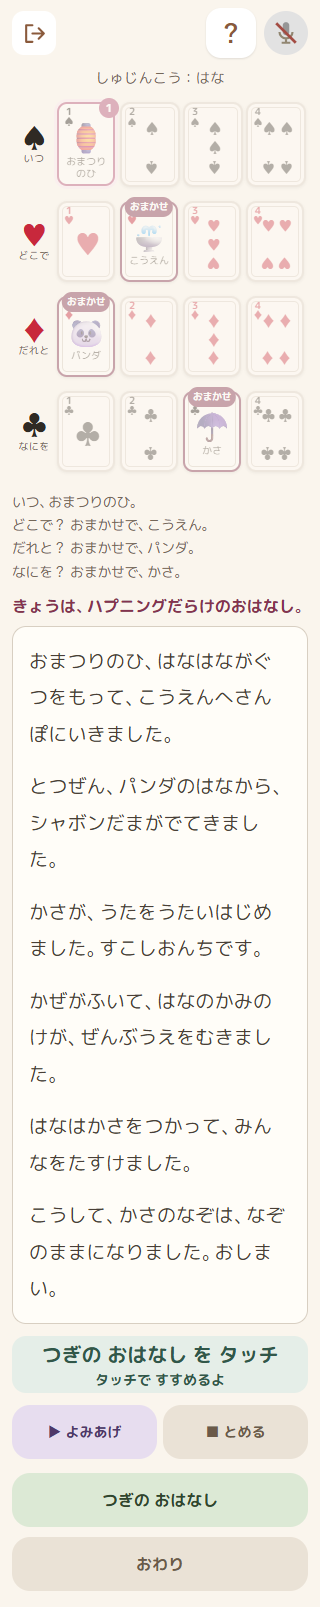
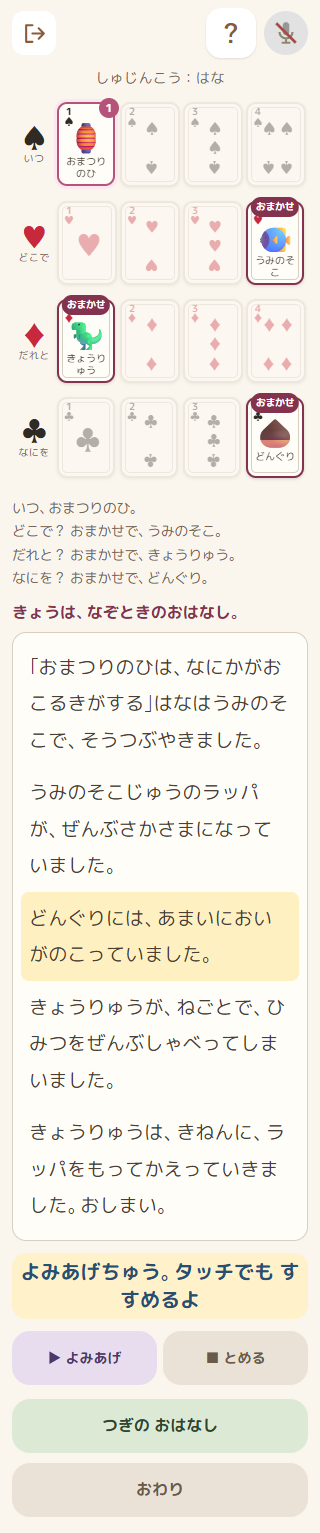
Stabilize story controls and pause after narration intro

diff --git a/story/app.js b/story/app.js
@@ -14,7 +14,6 @@ import { setVoiceGuide } from '../src/ui/voice-guide.js';
 const screenAwake = new ScreenAwake();
 
 const $ = id => document.getElementById(id);
-const NUM_WORDS = ['いち', 'に', 'さん', 'よん', 'ご'];
 const SETTINGS_KEY = 'koekit.story.settings';
 
 // ---------- 設定（端末内に保存。失敗しても既定値で動く） ----------
@@ -96,6 +95,9 @@ function paintCue(id, word, action, touch, words = '') {
   setVoiceGuide($(id), reader.busy || modal ? '' : word,
     reader.busy ? 'よみあげちゅう。タッチでも すすめるよ' : action, touch);
   $(id + '-words').textContent = speaking && words ? `いえること：${words}` : '';
+  if (id === 'guide' && !speaking) {
+    $(id + '-words').textContent = reader.busy ? 'よみあげちゅう\nタッチでも すすめるよ' : 'カードや ボタンを\nタッチで えらぼう';
+  }
 }
 
 // ---------- MG-S01 はじめ ----------
@@ -296,7 +298,7 @@ function paintGuide() {
   if (st.picks) { g.hidden = true; $('guide-words').textContent = ''; return; }
   g.hidden = false;
   const cols = st.board.cols;
-  const nums = NUM_WORDS.slice(0, cols).join('・');
+  const nums = Array.from({ length: cols }, (_, i) => i + 1).join('・');
   $('back').hidden = false; // めくる直前もタッチで選び直せる
   $('omakase').hidden = $('ok').hidden = st.done;
   $('start').hidden = !st.done;
@@ -308,10 +310,10 @@ function paintGuide() {
   const label = set.rows[k].label;
   const selected = st.sel[k];
   let main;
-  if (selected.length >= MAX_PER_ROW) main = '3つ えらんだよ。つぎへ すすむね';
+  if (selected.length >= MAX_PER_ROW) main = '3つ えらんだよ。つぎへ';
   else if (selected.length) main = `${selected.map(i => i + 1).join('・')}ばん。オッケーで つぎへ`;
   else main = `${label}？ 3つまで えらぼう`;
-  paintCue('guide', '', main, '', `${nums}・オッケー・おまかせ・もどる`);
+  paintCue('guide', '', main, '', `${nums}\nオッケー・おまかせ・もどる`);
 }
 
 // 番号の指定（タッチ・声で共通）：その場で選択／解除する（2026-09-27 発案者指示）。
@@ -414,7 +416,7 @@ function readAll() {
   const summary = picksSummary(settings.audience, st.picks);
   const items = [
     ...summary.map((text, i) => ({ text, onStart: () => mark('picks', i) })),
-    { text: st.story.intro, onStart: () => { mark('picks', null); scrollToStory(); } },
+    { text: st.story.intro, pauseAfter: 800, onStart: () => { mark('picks', null); scrollToStory(); } },
     ...st.story.lines.map((l, i) => ({ text: l.text, onStart: () => mark('story', i) })),
   ];
   reader.speak(items).then(() => mark('story', null));

diff --git a/story/styles.css b/story/styles.css
@@ -143,6 +143,8 @@ button, a { touch-action: manipulation; -webkit-tap-highlight-color: transparent
 button:focus-visible, a:focus-visible, select:focus-visible, input:focus-visible, summary:focus-visible { outline: 3px solid #7459a8; outline-offset: 3px; }
 button:active:not(:disabled) { transform: translateY(1px); }
 button:disabled { opacity: .42; cursor: default; }
+/* めくった札は操作不可でも鮮明に。選ばなかった札の .dim だけは薄く残す。 */
+.cell.open:not(.dim):disabled { opacity: 1; }
 .toolbar { display: flex; align-items: center; gap: 8px; min-height: 50px; }
 .icon { width: 44px; height: 44px; flex-shrink: 0; padding: 0; display: grid; place-items: center; border: 0; border-radius: 12px; background: #fff; color: #8a5a3c; cursor: pointer; }
 .icon svg { width: 25px; height: 25px; fill: none; stroke: currentColor; stroke-width: 2; stroke-linecap: round; stroke-linejoin: round; }
@@ -173,6 +175,13 @@ main:has(#s-start:not([hidden])) { padding-inline: 16px; padding-bottom: max(8px
 #voice { min-width: 0; min-height: 44px; color: var(--ink); }
 .toast { max-width: calc(100% - 24px); text-align: center; z-index: 10; }
 .heard:empty { display: none; }
+/* 案内・発話候補・聞き取り結果の有無で、下の操作ボタンを動かさない。 */
+#guide.voice-guide { min-height: 68px; margin: 6px auto; }
+#guide.voice-guide strong { font-size: 18px; }
+#guide.voice-guide span { font-size: 16px; }
+#guide-words { display: block; min-height: 48px; font-size: 15px; line-height: 24px; white-space: pre-line; margin: 4px 0 0; }
+#s-board:has(#board-btns:not([hidden])) .heard { display: block; min-height: 22px; line-height: 22px; }
+#s-board:has(#board-btns[hidden]) #guide-words { display: none; }
 @media (max-height: 819px) {
   #s-start h1 { height: 74px; width: min(352px, 100%); }
   .lead { margin: 10px 0 16px; }
@@ -197,7 +206,8 @@ main:has(#s-start:not([hidden])) { padding-inline: 16px; padding-bottom: max(8px
   .menu-options { grid-template-columns: repeat(2, minmax(0, 1fr)); gap: 8px; }
   .menu-options .row:nth-child(n + 3) { grid-column: 1 / -1; }
   .seg button { min-height: 36px; padding: 6px 3px; font-size: 14px; }
-  .brow .cell:not(.open) { aspect-ratio: auto; height: clamp(48px, calc((100svh - 350px) / 4), 76px); }
+  .brow .cell:not(.open) { aspect-ratio: auto; height: clamp(44px, calc((100svh - 382px) / 4), 76px); }
+  .brow .cell:not(.open) .pips { grid-template-rows: repeat(3, minmax(0, 1fr)); font-size: clamp(10px, 1.8svh, 13px); }
   .cell .pips.p1 i { font-size: 1.6rem; }
   .cell .idx { font-size: .65rem; }
   .voice-options { font-size: 11px; }

diff --git a/story/tts.js b/story/tts.js
@@ -55,12 +55,13 @@ export class Reader {
 
   stop() {
     this.token++;
+    this.cancelPause?.();
     this.keep = [];
     if (synth) synth.cancel();
     this.setBusy(false);
   }
 
-  // items: [{ text, onStart }] を順に読む。読み終わり／中断で resolve（中断なら false）
+  // items: [{ text, onStart, pauseAfter? }] を順に読む。間も busy を保ち、stop で取り消す。
   async speak(items) {
     this.stop();
     if (!this.enabled || !synth) return true;
@@ -71,6 +72,14 @@ export class Reader {
         if (my !== this.token) return false;
         item.onStart?.();
         await this.speakOne(s, my);
+      }
+      if (my !== this.token) return false;
+      if (item.pauseAfter > 0) {
+        await new Promise(resolve => {
+          const finish = () => { clearTimeout(timer); this.cancelPause = null; resolve(); };
+          const timer = setTimeout(finish, item.pauseAfter);
+          this.cancelPause = finish;
+        });
       }
     }
     if (my !== this.token) return false;

diff --git a/sw.js b/sw.js
@@ -12,7 +12,7 @@
 // BUILD は scripts/stamp-cache.cjs が各デプロイ前に一意な値へ置換する。
 
 const VERSION = '0.1.0';            // version.json と一致（scripts/check-version 対象）
-const BUILD = 'v0.1.0-20260927113915-0c56d40';         // ← scripts/stamp-cache.cjs がデプロイ毎に置換
+const BUILD = 'v0.1.0-20260927120200-6c88b18';         // ← scripts/stamp-cache.cjs がデプロイ毎に置換
 const APP_CACHE = 'koekit-app-' + BUILD;
 const STATIC_CACHE = 'koekit-static-v2'; // 大きい静的資産（vosk.js等）。中身を変えたときだけ版を上げる
 

diff --git a/docs/story/handoff.md b/docs/story/handoff.md
@@ -2,6 +2,14 @@
 
 2026-09-27 Codex更新。**正典は[要件定義書](../requirements-story.md)（v1.1）と[基本設計](design.md)（v1.4）**。本書は、現時点の状態と進め方だけをまとめる。本作専用の作業ルールは [`story/AGENTS.md`](../../story/AGENTS.md)。
 
+## 公開後の調整（2026-09-27）
+
+- 初期モードは `kids`（こども）。こども／おとなの選択を端末の `koekit.story.settings.audience` に保持する既存仕様を維持し、再読み込みでの復元を確認。
+- カード選択中の発話候補を「いえること：1・2・3・4（おとなは5まで）」と操作語の2行に整理。15pxへ拡大。案内・候補・認識結果の高さを確保し、選択・読み上げ・マイク切替・最終確認で下のボタン位置を維持する。
+- めくった選択札に誤適用されていた `button:disabled` の透明度を解除。選ばなかった札のみ薄くする。
+- 紹介文のあと800ms待って本文を読む。待機中も音声認識を止め、停止・ヘルプ・終了では待機を取り消す。
+- `verify-reading-layout.cjs`：初期設定とモード保持、320/390/768px×2モードのボタン位置、札の透明度、紹介後の間・停止をChromeで検証。実機の音声は未確認。配信状況は [公開記録](deployment.md)。
+
 ## 今回の更新（Codex）
 
 - 名称は発案者が **モノガタリズム** に確定。仮称・試作の表示を外し、ロゴを `story/assets/monogatarhythm.svg` に作成した。

diff --git a/docs/story/design.md b/docs/story/design.md
@@ -263,3 +263,7 @@ stateDiagram-v2
 | 1.2 | 2026-09-27 | トランプ風のカード（S03）。選んだ声は一覧に無い間も覚えておき、届いたら戻す（tts.js `setPreferred`） | 発案者指示 |
 | 1.3 | 2026-09-27 | Codex への引継ぎ（handoff.md 更新、story/AGENTS.md 新設） | 発案者指示 |
 | 1.4 | 2026-09-27 | 正式名称と既存ロゴの意匠を継承。共通配色・ボタン・発話案内・ホーム／戻る／ヘルプ／終了導線。小画面と状態遷移をブラウザで検証 | 発案者指示 |
+
+### 2026-09-27 公開後の調整
+
+初期モードはこども。利用者が切り替えたモードは端末に保持する。選択中の案内は15px・2行分の高さを確保し、認識結果の表示／消去でも操作ボタンを移動させない。めくった選択札は透明度1で表示する。紹介文の読み終わりから本文まで800msの間を置き、その間もReader.busyを維持する。停止で間を取り消す。

diff --git a/docs/story/deployment.md b/docs/story/deployment.md
@@ -19,3 +19,7 @@
 - 実機の発話・読み上げ、Android/iOS PWAの今回分の受入は未確認。
 
 ブラウザ検証は既存Playwrightを `STORY_PLAYWRIGHT` で指定。公開先の検証では `STORY_BASE=https://koekit.sikumilab.com` を指定する。アプリへの追加依存はない。
+
+## 公開後の調整（2026-09-27）
+
+案内の拡大・ボタン位置安定、めくった札の透明度修正、紹介文後800msの間を追加。モードの端末保持も検証済み。ローカルChrome検証成功、追加分の公開確認待ち。
